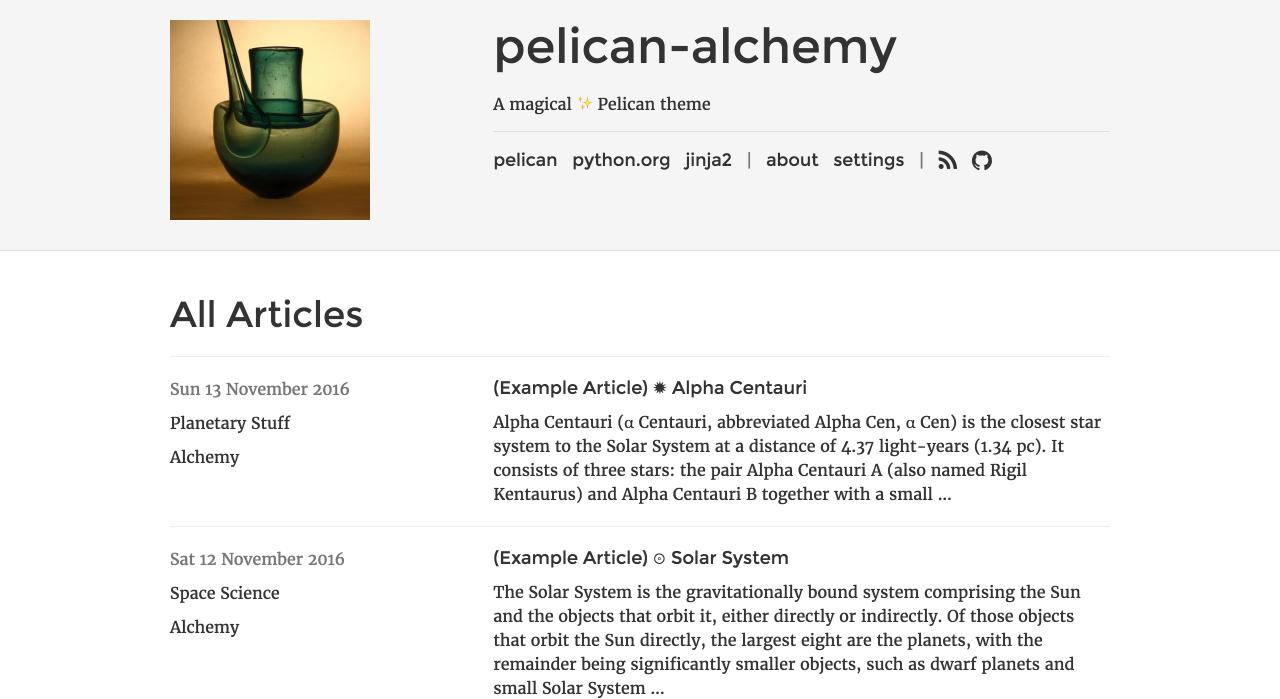
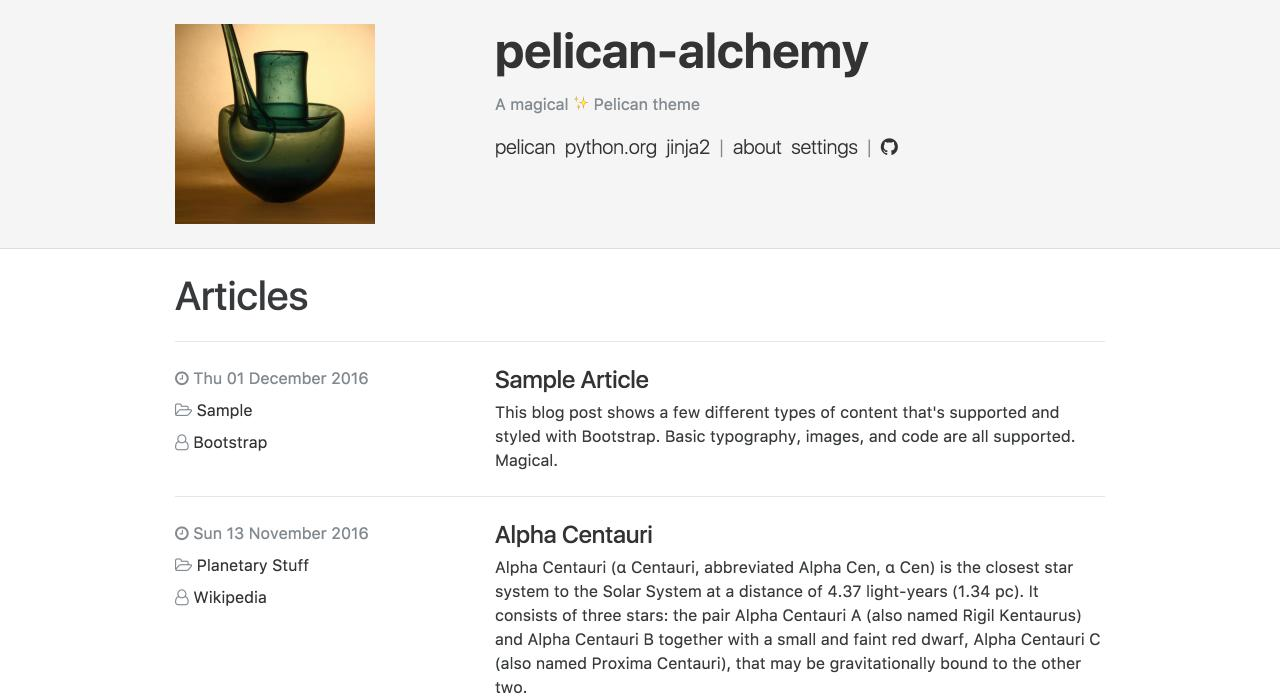
:unicorn: Update setup instructions

diff --git a/alchemy/static/css/style.css b/alchemy/static/css/style.css
@@ -4,6 +4,10 @@
   text-shadow: none;
 }
 
+body {
+  background-color: #f5f5f5;
+}
+
 a {
   color: #333;
 }
@@ -30,7 +34,6 @@ hr {
 
 .header,
 .footer {
-  background-color: #f5f5f5;
   padding: 1.5rem 0 .5rem;
 }
 
@@ -59,6 +62,7 @@ hr {
 }
 
 .main {
+  background-color: #fff;
   padding: 1.5rem 0;
 }
 
@@ -99,11 +103,6 @@ hr {
 
 .article .content a {
   text-decoration: underline
-}
-
-/* Pad article content */
-.article .content p {
-  margin: 1.5rem 0;
 }
 
 @media (min-width: 576px) {

diff --git a/alchemy/templates/base.html b/alchemy/templates/base.html
@@ -35,7 +35,7 @@
   <link rel="alternate" type="application/rss+xml" href="{{ FEED_DOMAIN }}/{{ TAG_FEED_RSS|format(tag.slug) }}" title="Tags RSS Feed">
   {% endif %}
 
-  {% if NEW_FAVICONS %}
+  {% if RFG_FAVICONS %}
   <link rel="apple-touch-icon" href="{{ SITEURL }}/apple-touch-icon.png" sizes="180x180">
   <link rel="icon" type="image/png" href="{{ SITEURL }}/favicon-32x32.png" sizes="32x32">
   <link rel="icon" type="image/png" href="{{ SITEURL }}/favicon-16x16.png" sizes="16x16">

diff --git a/README.md b/README.md
@@ -1,31 +1,46 @@
 # pelican-alchemy
 
-Alchemy ✨ is a functional, clean, responsive theme for the [Pelican](http://getpelican.com) static site generator. It is heavily inspired by [crowsfoot](http://github.com/porterjamesj/crowsfoot) and [clean-blog](https://github.com/BlackrockDigital/startbootstrap-clean-blog), and is powered by [Bootstrap](https://github.com/twbs/bootstrap) (v3.x).
+Alchemy ✨ is a functional, clean, responsive theme for the [Pelican](http://getpelican.com) static site generator. It is heavily inspired by [crowsfoot](http://github.com/porterjamesj/crowsfoot), [clean-blog](https://github.com/BlackrockDigital/startbootstrap-clean-blog), and powered by [Bootstrap](https://github.com/twbs/bootstrap).
 
 [Demo](https://rwanyoike.github.io/pelican-alchemy/)!
+
+Pull requests are welcome!
 
 ## Screenshot
 
 ![Screenshot](screenshot.jpg "Screenshot")
 
+## Features
+
+- Bootstap 4 (currently v4.0.0-alpha.5)
+- Core Pygments [styles](http://pygments.org/demo/)
+- External analytics (Google Analytics, Gauges, Piwik)
+- External comments (Disqus)
+- Font Awesome font icons
+- No external dependencies
+- No JavaScript (excl. Analytics & Comments)
+- Pelican `sitemap.xml` support
+- realfavicongenerator [package](http://realfavicongenerator.net/blog/new-favicon-package-less-is-more/) support
+- Simple Jinja2 templates
+
 ## Installation
 
-First, clone the repo onto your device:
+First, clone the repo:
 
     $ git clone git@github.com:rwanyoike/pelican-alchemy.git
 
-Point the `THEME` variable in your pelican config to the `alchemy` folder:
+Then point the `THEME` variable in your Pelican config to the `alchemy` folder:
 
     THEME = '/path/to/pelican-alchemy/alchemy'
 
-### Alternative
+### As a Submodule
 
-Setup `pelican-alchemy` as a submodule:
+In your Pelican site:
 
     $ mkdir themes
-    $ git submodule add git@github.com:rwanyoike/pelican-alchemy.git themes/pelican-alchemy
+    $ git submodule add https://github.com/rwanyoike/pelican-alchemy themes/pelican-alchemy
 
-And in pelican config:
+And Pelican config:
 
     THEME = 'themes/pelican-alchemy/alchemy'
 
@@ -35,12 +50,12 @@ Visit the [settings page](https://rwanyoike.github.io/pelican-alchemy/pages/sett
 
 - **SITESUBTITLE**: Subtitle that appears in the header.
 - **SITEIMAGE**: Image that appears in the header.
-- **DESCRIPTION**: Index page HTML head meta description tag.
+- **DESCRIPTION**: Index HTML head `<meta>` description.
 - **LINKS**: A list of tuples (Title, URL) for menu links.
 - **ICONS**: A list of tuples (Icon, URL) for icon links.
 - **PYGMENTS_STYLE**: Built-in Pygments style for syntax highlighting.
-- **HIDE_AUTHORS**: Hide the author(s) of an article.
-- **NEW_FAVICONS**: Use a [realfavicongenerator](https://realfavicongenerator.net/blog/new-favicon-package-less-is-more/) favicon package.
+- **HIDE_AUTHORS**: Hide the author(s) of an article - useful for single author sites.
+- **RFG_FAVICONS**: Use a [realfavicongenerator](https://realfavicongenerator.net/blog/new-favicon-package-less-is-more/) package.
 
 Others:
 
@@ -50,6 +65,65 @@ Others:
 - **PIWIK_URL**
 - **PIWIK_SITE_ID**
 
----
+Example Pelican [config](https://github.com/rwanyoike/pelican-alchemy/blob/demo/pelicanconf.py) (demo site).
 
-Pull requests are welcome! ☺
+## Tips
+
+### Bootstrap Classes
+
+To have Bootstrap classes set for rendered html (`.table`, `.img-fluid` etc), use the [Bootstrapify](https://github.com/ingwinlu/pelican-bootstrapify) plugin.
+
+In your Pelican site:
+
+    $ mkdir plugins
+    $ git submodule add https://github.com/ingwinlu/pelican-bootstrapify plugins/pelican-bootstrapify
+
+And Pelican config:
+
+    # http://docs.getpelican.com/en/stable/plugins.html#how-to-use-plugins
+    PLUGIN_PATHS = ['plugins']
+    PLUGINS = ['pelican-bootstrapify']
+
+    BOOTSTRAPIFY = {
+        'table': ['table', 'table-striped', 'table-hover'],
+        'img': ['img-fluid'],
+        'blockquote': ['blockquote'],
+    }
+
+Use `BOOTSTRAPIFY` to pass a `{'css-selector': ['list-of-classes']}` dict to the plugin. Bootstrapify will append `list-of-classes` to all tags that match `css-selector`.
+
+### RFG_FAVICONS
+
+To use the `RFG_FAVICONS` setting, visit [realfavicongenerator.net](https://realfavicongenerator.net/) to generate a site favicon package and download it.
+
+In your Pelican site:
+
+    $ mkdir content/extras
+    $ unzip /path/to/favicons.zip -d content/extras
+
+And Pelican config:
+
+    # https://github.com/getpelican/pelican/wiki/Tips-n-Tricks#second-solution-using-static_paths
+    STATIC_PATHS = ['extras', 'images']
+    EXTRA_PATH_METADATA = {
+        'extras/android-chrome-192x192.png': {'path': 'android-chrome-192x192.png'},
+        'extras/apple-touch-icon.png': {'path': 'apple-touch-icon.png'},
+        'extras/browserconfig.xml': {'path': 'browserconfig.xml'},
+        ...
+    }
+
+    RFG_FAVICONS = True
+
+Note: `EXTRA_PATH_METADATA` should correspond with the favicon package:
+
+    $ unzip -l /path/to/favicons.zip
+
+### Generate `sitemap.xml`
+
+There is a `sitemap.html` Jinja2 template that can be used to [generate a sitemap](https://github.com/getpelican/pelican/wiki/Tips-n-Tricks#generate-sitemapxml).
+
+In your Pelican config:
+
+    # Default value is ['index', 'tags', 'categories', 'authors', 'archives']
+    DIRECT_TEMPLATES = ['index', 'tags', 'categories', 'authors', 'archives', 'sitemap']
+    SITEMAP_SAVE_AS = 'sitemap.xml'
